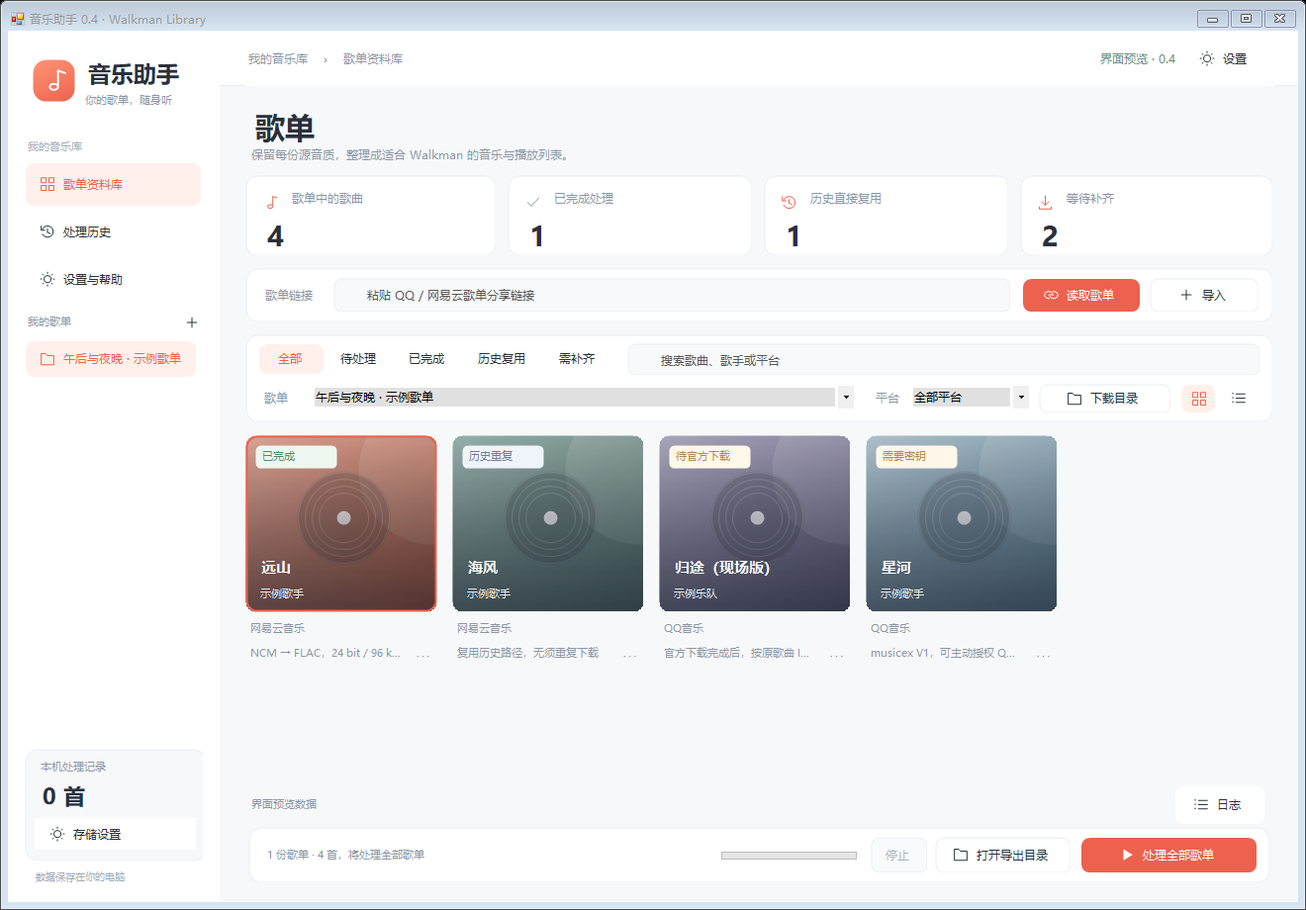
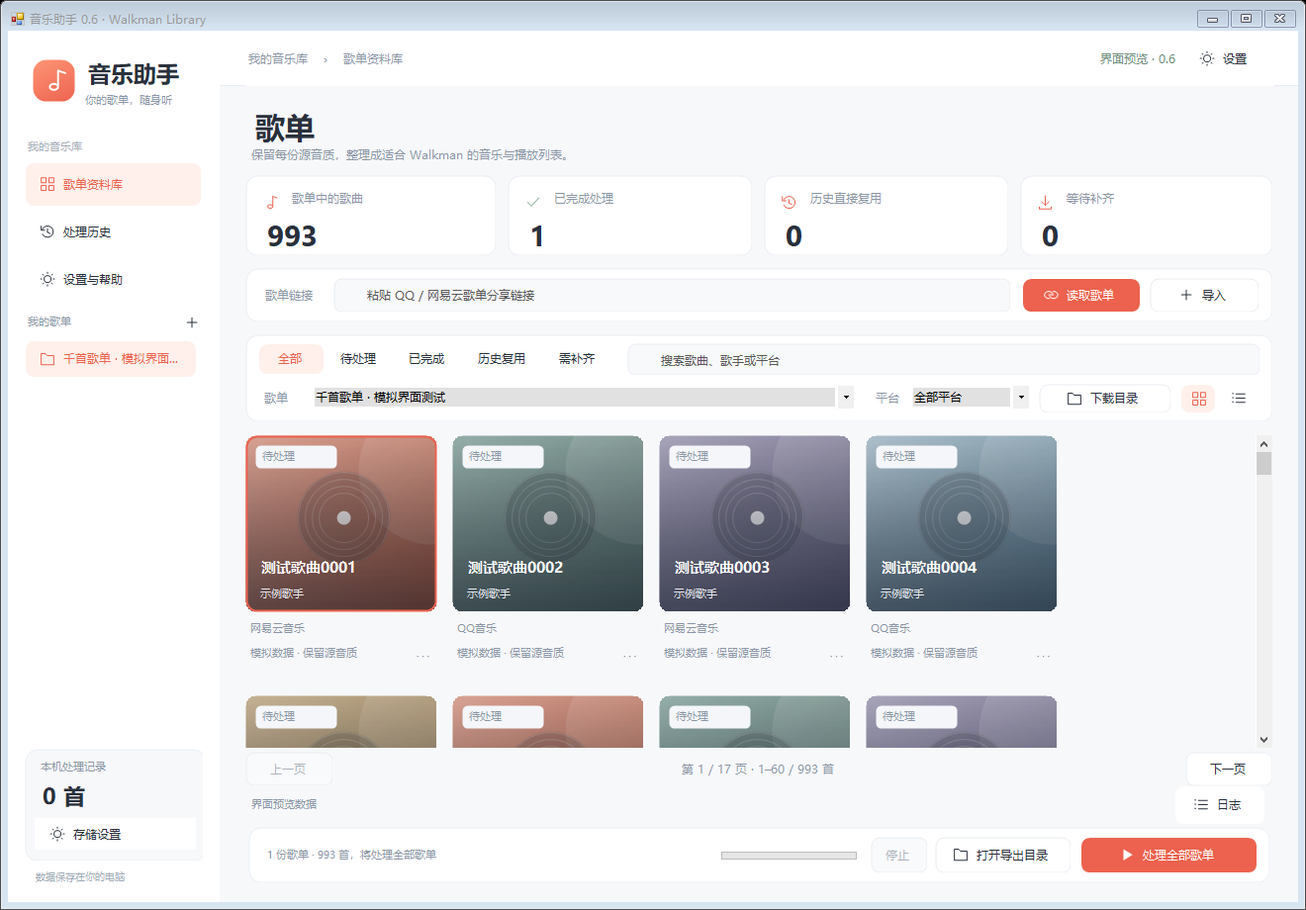
Fix large playlist card rendering with bounded pagination

diff --git a/src/MainForm.Views.cs b/src/MainForm.Views.cs
@@ -1,4 +1,4 @@
-using System;
+using System;
 using System.Collections.Generic;
 using System.ComponentModel;
 using System.Drawing;
@@ -14,7 +14,9 @@ namespace MusicAssistant {
   readonly FlowLayoutPanel collectionList=new FlowLayoutPanel();readonly List<SoftButton> statusButtons=new List<SoftButton>();
   readonly Label breadcrumb=new Label(),storageCount=new Label(),activityCaption=new Label(),selectionCaption=new Label();
   readonly ToolTip tips=new ToolTip();MetricTile[] metricItems=new MetricTile[4];Panel taskStage,gridSurface,emptyState;
-  SoftButton cardToggle,tableToggle;string dataNotice="";
+  SoftButton cardToggle,tableToggle,pagePrevious,pageNext;Panel cardSurface;Label pageCaption;string dataNotice="";
+  const int AlbumPageSize=60;int albumPage;bool resetAlbumScroll=true;
+  List<string> albumCoverPaths=new List<string>();
 
   string ButtonIcon(string text){if(text.Contains("目录")||text.Contains("文件"))return "folder";if(text.Contains("密钥"))return "key";if(text.Contains("日志"))return "list";if(text.Contains("读取")||text.Contains("链接"))return "link";if(text.Contains("导入")||text.Contains("添加"))return "plus";if(text.Contains("处理"))return "play";if(text.Contains("设置"))return "settings";return null;}
   void InitializeShell(){
@@ -25,7 +27,7 @@ namespace MusicAssistant {
    breadcrumb.Dock=DockStyle.Fill;breadcrumb.ForeColor=muted;breadcrumb.TextAlign=ContentAlignment.MiddleLeft;breadcrumb.Font=new Font(Font.FontFamily,8.5f);topbar.Controls.Add(breadcrumb);
    var topRight=new FlowLayoutPanel{Dock=DockStyle.Right,Width=250,Padding=new Padding(0,10,0,0),FlowDirection=FlowDirection.RightToLeft,WrapContents=false};topbar.Controls.Add(topRight);
    var prefs=Button("设置",()=>Switch("设置与帮助"),84,false);((SoftButton)prefs).Quiet=true;topRight.Controls.Add(prefs);
-   var mode=Label(previewMode?"界面预览 · 0.5":"保真处理 · 0.5",8.5f,Color.FromArgb(108,140,120),145,36);mode.TextAlign=ContentAlignment.MiddleRight;topRight.Controls.Add(mode);
+   var mode=Label(previewMode?"界面预览 · 0.6":"保真处理 · 0.6",8.5f,Color.FromArgb(108,140,120),145,36);mode.TextAlign=ContentAlignment.MiddleRight;topRight.Controls.Add(mode);
    var side=new TableLayoutPanel{Dock=DockStyle.Fill,ColumnCount=1,RowCount=6,BackColor=Color.White};side.ColumnStyles.Add(new ColumnStyle(SizeType.Percent,100));foreach(float h in new[]{82f,25f,144f,36f,0f,147f})side.RowStyles.Add(new RowStyle(h==0?SizeType.Percent:SizeType.Absolute,h==0?100:h));sidebar.Controls.Add(side);
    var brand=new Panel{Dock=DockStyle.Fill,BackColor=Color.White};brand.Controls.Add(new BrandMark{Location=new Point(7,2)});var brandTitle=Label("音乐助手",17,ink,130,32);brandTitle.Location=new Point(58,0);brand.Controls.Add(brandTitle);var tagline=Label("你的歌单，随身听",8,muted,130,24);tagline.Location=new Point(58,32);brand.Controls.Add(tagline);side.Controls.Add(brand,0,0);
    side.Controls.Add(Label("我的音乐库",8,Color.FromArgb(165,173,184),175,25),0,1);
@@ -43,7 +45,7 @@ namespace MusicAssistant {
   TableLayoutPanel Base(string title,string description){ReleasePage();var shell=new TableLayoutPanel{Dock=DockStyle.Fill,ColumnCount=1,RowCount=2,BackColor=background,Margin=Padding.Empty};shell.ColumnStyles.Add(new ColumnStyle(SizeType.Percent,100));shell.RowStyles.Add(new RowStyle(SizeType.Absolute,72));shell.RowStyles.Add(new RowStyle(SizeType.Percent,100));content.Controls.Add(shell);
    var head=new Panel{Dock=DockStyle.Fill,BackColor=background};head.Controls.Add(Label(title,22,ink,480,40));subtitle.Text=description;subtitle.Font=new Font(Font.FontFamily,8.5f);subtitle.ForeColor=muted;subtitle.SetBounds(0,40,900,24);head.Controls.Add(subtitle);shell.Controls.Add(head,0,0);return shell;}
   void Switch(string name){if(busy)return;view=name;buildingUi=true;if(name=="处理历史")BuildHistory();else if(name=="设置与帮助")BuildSettings();else BuildTasks();buildingUi=false;RefreshSidebar();}
-  public void ShowPreviewPage(string name){if(name=="歌曲列表"){showCards=false;Switch("歌单任务");}else Switch(name);}
+  public void ShowPreviewPage(string name){if(name=="大歌单"){ShowLargePreview();}else if(name=="大歌单尾页"){ShowLargePreview();ChangeAlbumPage(16);}else if(name=="歌曲列表"){showCards=false;Switch("歌单任务");}else Switch(name);}
   public void SetDataLocationNotice(string notice){dataNotice=notice;Append(notice);}
   void InputStyle(TextBox box){box.BorderStyle=BorderStyle.None;box.BackColor=Color.FromArgb(248,249,251);box.ForeColor=ink;box.Font=new Font(Font.FontFamily,9);}
   SurfacePanel InputWrap(TextBox box,string icon){InputStyle(box);var p=new SurfacePanel{Dock=DockStyle.Fill,Radius=7,SurfaceColor=box.BackColor,BackColor=Color.White};p.Controls.Add(box);p.Resize+=(s,e)=>{box.SetBounds(string.IsNullOrEmpty(icon)?12:34,Math.Max(9,(p.Height-box.PreferredHeight)/2),Math.Max(30,p.Width-(string.IsNullOrEmpty(icon)?24:45)),box.PreferredHeight);};if(!string.IsNullOrEmpty(icon))p.Paint+=(s,e)=>UiIcons.Draw(e.Graphics,icon,new Rectangle(11,(p.Height-15)/2,15,15),muted);return p;}
@@ -56,18 +58,38 @@ namespace MusicAssistant {
    var top=new TableLayoutPanel{Dock=DockStyle.Fill,ColumnCount=2,RowCount=1,Margin=Padding.Empty};top.BackColor=Color.White;top.RowStyles.Add(new RowStyle(SizeType.Percent,100));top.ColumnStyles.Add(new ColumnStyle(SizeType.Absolute,365));top.BackColor=Color.White;top.RowStyles.Add(new RowStyle(SizeType.Percent,100));top.ColumnStyles.Add(new ColumnStyle(SizeType.Percent,100));var tabs=new FlowLayoutPanel{Dock=DockStyle.Fill,WrapContents=false,Margin=Padding.Empty,BackColor=Color.White};statusButtons.Clear();foreach(string name in new[]{"全部","待处理","已完成","历史复用","需补齐"}){string captured=name;var b=(SoftButton)Button(name,()=>{statusTab=captured;ApplyFilters();},name.Length>3?80:66,false);b.Icon=null;b.Quiet=true;b.Chosen=statusTab==name;b.Height=31;b.Margin=new Padding(0,0,3,0);statusButtons.Add(b);tabs.Controls.Add(b);}top.Controls.Add(tabs,0,0);var searchWrap=InputWrap(songSearch,"search");searchWrap.Margin=new Padding(8,0,0,3);songSearch.TextChanged-=SearchChanged;songSearch.TextChanged+=SearchChanged;top.Controls.Add(searchWrap,1,0);frows.Controls.Add(top,0,0);
    var bottom=new TableLayoutPanel{Dock=DockStyle.Fill,ColumnCount=7,RowCount=1,Margin=new Padding(0,6,0,0)};bottom.BackColor=Color.White;bottom.RowStyles.Add(new RowStyle(SizeType.Percent,100));bottom.ColumnStyles.Add(new ColumnStyle(SizeType.Absolute,54));bottom.BackColor=Color.White;bottom.RowStyles.Add(new RowStyle(SizeType.Percent,100));bottom.ColumnStyles.Add(new ColumnStyle(SizeType.Percent,100));bottom.BackColor=Color.White;bottom.RowStyles.Add(new RowStyle(SizeType.Percent,100));bottom.ColumnStyles.Add(new ColumnStyle(SizeType.Absolute,41));bottom.BackColor=Color.White;bottom.RowStyles.Add(new RowStyle(SizeType.Percent,100));bottom.ColumnStyles.Add(new ColumnStyle(SizeType.Absolute,130));bottom.BackColor=Color.White;bottom.RowStyles.Add(new RowStyle(SizeType.Percent,100));bottom.ColumnStyles.Add(new ColumnStyle(SizeType.Absolute,143));bottom.BackColor=Color.White;bottom.RowStyles.Add(new RowStyle(SizeType.Percent,100));bottom.ColumnStyles.Add(new ColumnStyle(SizeType.Absolute,40));bottom.BackColor=Color.White;bottom.RowStyles.Add(new RowStyle(SizeType.Percent,100));bottom.ColumnStyles.Add(new ColumnStyle(SizeType.Absolute,40));bottom.Controls.Add(Label("歌单",8.5f,muted,50,28),0,0);ComboStyle(listSelector);listSelector.Dock=DockStyle.Fill;listSelector.Margin=new Padding(0,1,15,0);listSelector.SelectedIndexChanged-=SelectionChanged;listSelector.SelectedIndexChanged+=SelectionChanged;bottom.Controls.Add(listSelector,1,0);bottom.Controls.Add(Label("平台",8.5f,muted,40,28),2,0);ComboStyle(platformFilter);if(platformFilter.Items.Count==0){platformFilter.Items.AddRange(new object[]{"全部平台","QQ音乐","网易云音乐","本地音乐"});platformFilter.SelectedIndex=0;}platformFilter.SelectedIndexChanged-=SearchChanged;platformFilter.SelectedIndexChanged+=SearchChanged;platformFilter.Dock=DockStyle.Fill;platformFilter.Margin=new Padding(0,1,9,0);bottom.Controls.Add(platformFilter,3,0);var dirs=Button("下载目录",ChooseSourceFolder,136,false);dirs.Dock=DockStyle.Fill;dirs.Height=29;dirs.Margin=new Padding(0,0,10,0);bottom.Controls.Add(dirs,4,0);mutable.Add(dirs);
    cardToggle=(SoftButton)Button("",()=>SetView(true),32,false);cardToggle.Icon="grid";cardToggle.Quiet=true;cardToggle.Chosen=showCards;cardToggle.Dock=DockStyle.Fill;cardToggle.Margin=new Padding(0,0,5,0);tableToggle=(SoftButton)Button("",()=>SetView(false),32,false);tableToggle.Icon="list";tableToggle.Quiet=true;tableToggle.Chosen=!showCards;tableToggle.Dock=DockStyle.Fill;tableToggle.Margin=Padding.Empty;tips.SetToolTip(cardToggle,"专辑卡片视图");tips.SetToolTip(tableToggle,"歌曲列表视图");bottom.Controls.Add(cardToggle,5,0);bottom.Controls.Add(tableToggle,6,0);frows.Controls.Add(bottom,0,1);body.Controls.Add(filter,0,2);mutable.Add(listSelector);
-   taskStage=new Panel{Dock=DockStyle.Fill,BackColor=background,Margin=Padding.Empty};albumWall.Dock=DockStyle.Fill;albumWall.AutoScroll=true;albumWall.WrapContents=true;albumWall.FlowDirection=FlowDirection.LeftToRight;albumWall.BackColor=background;albumWall.Padding=Padding.Empty;taskStage.Controls.Add(albumWall);gridSurface=new SurfacePanel{Dock=DockStyle.Fill,BackColor=background,Padding=new Padding(8)};grid.Columns.Clear();StyleGrid(grid);Col(grid,"歌曲","Title",25);Col(grid,"歌手","Artist",17);Col(grid,"平台","Platform",13);Col(grid,"状态","Status",14);Col(grid,"说明","Detail",38);grid.CellDoubleClick-=GridDoubleClick;grid.CellDoubleClick+=GridDoubleClick;grid.CellToolTipTextNeeded-=GridTooltip;grid.CellToolTipTextNeeded+=GridTooltip;grid.CellPainting-=PaintStatus;grid.CellPainting+=PaintStatus;grid.CellMouseClick-=GridMenuClick;grid.CellMouseClick+=GridMenuClick;gridSurface.Controls.Add(grid);taskStage.Controls.Add(gridSurface);emptyState=EmptyPanel();taskStage.Controls.Add(emptyState);body.Controls.Add(taskStage,0,3);
+   taskStage=new Panel{Dock=DockStyle.Fill,BackColor=background,Margin=Padding.Empty};albumWall.Dock=DockStyle.Fill;albumWall.AutoScroll=true;albumWall.WrapContents=true;albumWall.FlowDirection=FlowDirection.LeftToRight;albumWall.BackColor=background;albumWall.Padding=Padding.Empty;cardSurface=new Panel{Dock=DockStyle.Fill,BackColor=background};cardSurface.Controls.Add(albumWall);
+   var paging=new TableLayoutPanel{Dock=DockStyle.Bottom,Height=38,ColumnCount=3,RowCount=1,BackColor=background,Padding=new Padding(0,4,0,0)};paging.RowStyles.Add(new RowStyle(SizeType.Percent,100));paging.ColumnStyles.Add(new ColumnStyle(SizeType.Absolute,88));paging.ColumnStyles.Add(new ColumnStyle(SizeType.Percent,100));paging.ColumnStyles.Add(new ColumnStyle(SizeType.Absolute,88));
+   pagePrevious=(SoftButton)Button("上一页",()=>ChangeAlbumPage(-1),86,false);pageNext=(SoftButton)Button("下一页",()=>ChangeAlbumPage(1),86,false);pagePrevious.Dock=pageNext.Dock=DockStyle.Fill;pagePrevious.Margin=pageNext.Margin=Padding.Empty;pagePrevious.Icon=pageNext.Icon=null;pageCaption=Label("",8.5f,muted,300,34);pageCaption.Dock=DockStyle.Fill;pageCaption.TextAlign=ContentAlignment.MiddleCenter;paging.Controls.Add(pagePrevious,0,0);paging.Controls.Add(pageCaption,1,0);paging.Controls.Add(pageNext,2,0);cardSurface.Controls.Add(paging);taskStage.Controls.Add(cardSurface);gridSurface=new SurfacePanel{Dock=DockStyle.Fill,BackColor=background,Padding=new Padding(8)};grid.Columns.Clear();StyleGrid(grid);Col(grid,"歌曲","Title",25);Col(grid,"歌手","Artist",17);Col(grid,"平台","Platform",13);Col(grid,"状态","Status",14);Col(grid,"说明","Detail",38);grid.CellDoubleClick-=GridDoubleClick;grid.CellDoubleClick+=GridDoubleClick;grid.CellToolTipTextNeeded-=GridTooltip;grid.CellToolTipTextNeeded+=GridTooltip;grid.CellPainting-=PaintStatus;grid.CellPainting+=PaintStatus;grid.CellMouseClick-=GridMenuClick;grid.CellMouseClick+=GridMenuClick;gridSurface.Controls.Add(grid);taskStage.Controls.Add(gridSurface);emptyState=EmptyPanel();taskStage.Controls.Add(emptyState);body.Controls.Add(taskStage,0,3);
    var activity=new TableLayoutPanel{Dock=DockStyle.Fill,ColumnCount=2,RowCount=1,Margin=Padding.Empty};activity.RowStyles.Add(new RowStyle(SizeType.Percent,100));activity.ColumnStyles.Add(new ColumnStyle(SizeType.Percent,100));activity.RowStyles.Add(new RowStyle(SizeType.Percent,100));activity.ColumnStyles.Add(new ColumnStyle(SizeType.Absolute,99));activityCaption.Dock=DockStyle.Fill;activityCaption.TextAlign=ContentAlignment.MiddleLeft;activityCaption.AutoEllipsis=true;activityCaption.ForeColor=muted;activityCaption.Font=new Font(Font.FontFamily,8);activity.Controls.Add(activityCaption,0,0);var logs=(SoftButton)Button("日志",ShowLogs,92,false);logs.Quiet=true;logs.Dock=DockStyle.Fill;activity.Controls.Add(logs,1,0);body.Controls.Add(activity,0,4);
    var dock=new SurfacePanel{Dock=DockStyle.Fill,Padding=new Padding(13,10,13,10),BackColor=background};var footer=new TableLayoutPanel{Dock=DockStyle.Fill,ColumnCount=5,RowCount=1,Margin=Padding.Empty};footer.BackColor=Color.White;footer.RowStyles.Add(new RowStyle(SizeType.Percent,100));footer.ColumnStyles.Add(new ColumnStyle(SizeType.Percent,100));footer.BackColor=Color.White;footer.RowStyles.Add(new RowStyle(SizeType.Percent,100));footer.ColumnStyles.Add(new ColumnStyle(SizeType.Absolute,155));footer.BackColor=Color.White;footer.RowStyles.Add(new RowStyle(SizeType.Percent,100));footer.ColumnStyles.Add(new ColumnStyle(SizeType.Absolute,65));footer.BackColor=Color.White;footer.RowStyles.Add(new RowStyle(SizeType.Percent,100));footer.ColumnStyles.Add(new ColumnStyle(SizeType.Absolute,147));footer.BackColor=Color.White;footer.RowStyles.Add(new RowStyle(SizeType.Percent,100));footer.ColumnStyles.Add(new ColumnStyle(SizeType.Absolute,178));dock.Controls.Add(footer);selectionCaption.Dock=DockStyle.Fill;selectionCaption.AutoEllipsis=true;selectionCaption.ForeColor=muted;selectionCaption.TextAlign=ContentAlignment.MiddleLeft;selectionCaption.Font=new Font(Font.FontFamily,8);footer.Controls.Add(selectionCaption,0,0);progress.Dock=DockStyle.Fill;progress.Height=6;progress.Margin=new Padding(4,15,14,13);footer.Controls.Add(progress,1,0);cancel.Text="停止";cancel.Dock=DockStyle.Fill;cancel.Enabled=false;cancel.FlatStyle=FlatStyle.Flat;cancel.FlatAppearance.BorderColor=UiTheme.Line;cancel.BackColor=Color.White;cancel.Margin=new Padding(0,0,8,0);cancel.Click-=CancelClick;cancel.Click+=CancelClick;footer.Controls.Add(cancel,2,0);var open=Button("打开导出目录",()=>OpenFolder(store.Settings.OutputRoot),139,false);open.Dock=DockStyle.Fill;open.Margin=new Padding(0,0,10,0);footer.Controls.Add(open,3,0);run.Text="处理全部歌单";run.Dock=DockStyle.Fill;((SoftButton)run).Primary=true;((SoftButton)run).Icon="play";run.Margin=Padding.Empty;run.Click-=RunClick;run.Click+=RunClick;footer.Controls.Add(run,4,0);body.Controls.Add(dock,0,5);
    buildingUi=false;RefreshLists();if(log.Text.Length==0)Append(audio.Available?"音频组件已就绪。导入歌单或本地音乐后开始。":"请先准备音频组件。");RefreshSidebar();
   }
-  void SearchChanged(object s,EventArgs e){if(!buildingUi)BindGrid();}
-  void ApplyFilters(){foreach(var b in statusButtons){b.Chosen=b.Text==statusTab;b.Invalidate();}BindGrid();}
+  void ResetAlbumPage(){albumPage=0;cardSelected=null;resetAlbumScroll=true;}
+  void SearchChanged(object s,EventArgs e){if(!buildingUi){ResetAlbumPage();BindGrid();}}
+  void ApplyFilters(){ResetAlbumPage();foreach(var b in statusButtons){b.Chosen=b.Text==statusTab;b.Invalidate();}BindGrid();}
   List<Track> VisibleTracks(){if(Current==null)return new List<Track>();string q=songSearch.Text.Trim(),p=Convert.ToString(platformFilter.SelectedItem);return Current.Tracks.Where(t=>q.Length==0||(t.Title+" "+t.Artist+" "+t.Platform).IndexOf(q,StringComparison.OrdinalIgnoreCase)>=0).Where(t=>string.IsNullOrEmpty(p)||p=="全部平台"||(p=="本地音乐"?string.IsNullOrEmpty(t.Platform):t.Platform==p)).Where(t=>statusTab=="全部"||statusTab=="已完成"&&t.Status=="已完成"||statusTab=="历史复用"&&t.Status=="历史重复"||statusTab=="待处理"&&(t.Status=="待处理"||t.Status=="处理中"||t.Status=="待重新处理")||statusTab=="需补齐"&&(t.Status=="需要密钥"||t.Status=="待官方下载"||t.Status=="失败"||t.Status=="未支持"||t.Status=="待官方确认")).ToList();}
   void UpdateCounters(){var rows=playlists.SelectMany(p=>p.Tracks).ToList();int[] values={rows.Count,rows.Count(t=>t.Status=="已完成"),rows.Count(t=>t.Status=="历史重复"),rows.Count(t=>t.Status=="需要密钥"||t.Status=="待官方下载"||t.Status=="失败"||t.Status=="未支持"||t.Status=="待官方确认")};for(int i=0;i<4;i++)if(metricItems[i]!=null&&!metricItems[i].IsDisposed){metricItems[i].Value=values[i].ToString();metricItems[i].Invalidate();}storageCount.Text=store.History.Select(h=>h.RelativePath).Distinct().Count()+" 首";if(view=="歌单任务"){subtitle.Text=Current!=null&&!string.IsNullOrEmpty(Current.ImportNotice)?Current.ImportNotice:"保留每份源音质，整理成适合 Walkman 的音乐与播放列表。";subtitle.AutoEllipsis=true;tips.SetToolTip(subtitle,subtitle.Text);}selectionCaption.Text=playlists.Count+" 份歌单 · "+rows.Count+" 首，将处理全部歌单";}
-  void SetView(bool cards){var selected=Selected;showCards=cards;if(selected!=null){if(cards)SelectCard(selected);else foreach(DataGridViewRow row in grid.Rows)if(row.DataBoundItem==selected){grid.CurrentCell=row.Cells[0];break;}}if(cardToggle!=null){cardToggle.Chosen=cards;cardToggle.Invalidate();tableToggle.Chosen=!cards;tableToggle.Invalidate();}UpdateStage(VisibleTracks().Count);}
-  void UpdateStage(int count){if(taskStage==null||taskStage.IsDisposed)return;albumWall.Visible=showCards&&count>0;gridSurface.Visible=!showCards&&count>0;emptyState.Visible=count==0;if(count==0)emptyState.BringToFront();else if(showCards)albumWall.BringToFront();else gridSurface.BringToFront();}
-  void BuildAlbumWall(List<Track> tracks){albumWall.SuspendLayout();foreach(Control c in albumWall.Controls.Cast<Control>().ToArray())c.Dispose();albumWall.Controls.Clear();if(cardSelected==null||!tracks.Contains(cardSelected))cardSelected=tracks.FirstOrDefault();int index=0;foreach(var t in tracks){var tile=new AlbumTile(t,FindCover(t),index++){Selected=t==cardSelected};tile.Activate=SelectCard;tile.Options=(track,control)=>{SelectCard(track);ShowSongMenu(control);};tips.SetToolTip(tile,t.Title+"\n"+t.Detail);albumWall.Controls.Add(tile);}albumWall.ResumeLayout();}
+  void SetView(bool cards){var selected=Selected;showCards=cards;if(selected!=null){if(cards){var tracks=VisibleTracks();int index=tracks.IndexOf(selected);if(index>=0){albumPage=index/AlbumPageSize;cardSelected=selected;resetAlbumScroll=true;BuildAlbumWall(tracks);albumWall.ScrollControlIntoView(albumWall.Controls.OfType<AlbumTile>().First(t=>t.Track==selected));}}else foreach(DataGridViewRow row in grid.Rows)if(row.DataBoundItem==selected){grid.CurrentCell=row.Cells[0];break;}}if(cardToggle!=null){cardToggle.Chosen=cards;cardToggle.Invalidate();tableToggle.Chosen=!cards;tableToggle.Invalidate();}UpdateStage(VisibleTracks().Count);}
+  void UpdateStage(int count){if(taskStage==null||taskStage.IsDisposed)return;cardSurface.Visible=showCards&&count>0;gridSurface.Visible=!showCards&&count>0;emptyState.Visible=count==0;if(count==0)emptyState.BringToFront();else if(showCards)cardSurface.BringToFront();else gridSurface.BringToFront();}
+  void ChangeAlbumPage(int delta){var tracks=VisibleTracks();int next=Math.Max(0,Math.Min(albumPage+delta,Math.Max(0,(tracks.Count-1)/AlbumPageSize)));if(next==albumPage)return;albumPage=next;cardSelected=null;resetAlbumScroll=true;BuildAlbumWall(tracks);}
+  void BuildAlbumWall(List<Track> tracks){
+   int lastPage=Math.Max(0,(tracks.Count-1)/AlbumPageSize);if(albumPage>lastPage){albumPage=lastPage;resetAlbumScroll=true;}
+   int start=albumPage*AlbumPageSize;var page=tracks.Skip(start).Take(AlbumPageSize).ToList();
+   if(cardSelected==null||!page.Contains(cardSelected))cardSelected=page.FirstOrDefault();
+   var covers=page.Select(FindCover).ToList();var tiles=albumWall.Controls.OfType<AlbumTile>().ToList();
+   bool rebuild=!tiles.Select(t=>t.Track).SequenceEqual(page)||!albumCoverPaths.SequenceEqual(covers);
+   var scroll=new Point(-albumWall.AutoScrollPosition.X,-albumWall.AutoScrollPosition.Y);
+   albumWall.SuspendLayout();
+   if(rebuild){
+    albumWall.AutoScrollPosition=Point.Empty;
+    foreach(var tile in tiles){tips.SetToolTip(tile,null);tile.Dispose();}albumWall.Controls.Clear();albumCoverPaths=covers;
+    for(int i=0;i<page.Count;i++){var tile=new AlbumTile(page[i],covers[i],start+i);tile.Activate=SelectCard;tile.Options=(track,control)=>{SelectCard(track);ShowSongMenu(control);};albumWall.Controls.Add(tile);}
+   }
+   foreach(AlbumTile tile in albumWall.Controls){tile.Selected=tile.Track==cardSelected;tips.SetToolTip(tile,tile.Track.Title+"\n"+tile.Track.Detail);tile.Invalidate();}
+   albumWall.ResumeLayout(true);albumWall.AutoScrollPosition=resetAlbumScroll?Point.Empty:scroll;resetAlbumScroll=false;
+   if(pageCaption!=null&&!pageCaption.IsDisposed){pageCaption.Text=tracks.Count==0?"没有匹配的歌曲":string.Format("第 {0} / {1} 页 · {2}–{3} / {4} 首",albumPage+1,lastPage+1,start+1,start+page.Count,tracks.Count);pagePrevious.Enabled=albumPage>0;pageNext.Enabled=albumPage<lastPage;}
+  }
   void SelectCard(Track track){cardSelected=track;foreach(AlbumTile tile in albumWall.Controls.OfType<AlbumTile>()){tile.Selected=tile.Track==track;tile.Invalidate();}selectionCaption.Text="已选择："+track.Title+" · 右键可关联文件、补密钥或重试";}
   void ShowPlaylistMenu(int index,Control owner){if(busy)return;if(view!="歌单任务"&&view!="任务")Switch("歌单任务");listSelector.SelectedIndex=index;var menu=NewMenu();MenuItem(menu,"重命名歌单",RenamePlaylist);MenuItem(menu,"保存歌单文件",SavePlaylist);MenuItem(menu,"移除歌单任务",RemovePlaylist);menu.Show(owner,new Point(10,owner.Height));}
   string FindCover(Track t){if(!string.IsNullOrEmpty(t.OutputPath))try{string folder=Path.GetDirectoryName(Files.Inside(Path.Combine(store.Settings.OutputRoot,"Music"),t.OutputPath));foreach(string name in new[]{"container-cover.jpg","container-cover.png","cover.jpg","cover.png"}){string path=Path.Combine(folder,name);if(File.Exists(path))return path;}}catch{}if(!string.IsNullOrEmpty(t.SourcePath)){string path=Path.ChangeExtension(t.SourcePath,".jpg");if(File.Exists(path))return path;path=Path.ChangeExtension(t.SourcePath,".png");if(File.Exists(path))return path;}return null;}

diff --git a/src/MainForm.UiChecks.cs b/src/MainForm.UiChecks.cs
@@ -15,8 +15,29 @@ namespace MusicAssistant {
    Size=new Size(1060,740);Application.DoEvents();var read=Descendants(content).OfType<Button>().First(c=>c.Text=="读取歌单");check(read.Bounds.Bottom<=read.Parent.ClientSize.Height&&read.Bounds.Right<=read.Parent.ClientSize.Width,"最小窗口下读取按钮完整可见");
    check(run.Bounds.Bottom<=run.Parent.ClientSize.Height&&run.Bounds.Right<=run.Parent.ClientSize.Width,"最小窗口下处理按钮完整可见");
    Switch("处理历史");Application.DoEvents();var open=Descendants(content).OfType<Button>().First(c=>c.Text=="打开记录目录");check(open.Bounds.Bottom<=open.Parent.ClientSize.Height,"历史页面操作按钮没有被布局裁切");
-   Switch("设置与帮助");Switch("歌单任务");Application.DoEvents();check(VisibleTracks().Count==4&&!grid.IsDisposed,"重复导航后任务列表仍可正常使用");return results;
+   Switch("设置与帮助");Switch("歌单任务");Application.DoEvents();check(VisibleTracks().Count==4&&!grid.IsDisposed,"重复导航后任务列表仍可正常使用");
+   ShowLargePreview();Application.DoEvents();var tracks=VisibleTracks();
+   check(tracks.Count==993&&grid.Rows.Count==993&&metricItems[0].Value=="993","分页仍保留完整歌单、列表与总数");
+   check(albumWall.Controls.Count==60&&albumPage==0&&!pagePrevious.Enabled&&pageNext.Enabled,"大歌单首屏只创建60张卡片");
+   check(albumWall.Controls[0].Bounds.IntersectsWith(albumWall.ClientRectangle)&&albumWall.DisplayRectangle.Height<32767,"大歌单首屏卡片可见且布局高度安全");
+   check(pageNext.Bounds.Bottom<=pageNext.Parent.ClientSize.Height&&pageCaption.Width>200,"最小窗口下页码与翻页按钮完整可见");
+   var seen=new List<Track>();for(int page=0;page<17;page++){Application.DoEvents();seen.AddRange(albumWall.Controls.OfType<AlbumTile>().Select(t=>t.Track));check(albumWall.Controls.Count<=60&&albumWall.Controls[0].Bounds.IntersectsWith(albumWall.ClientRectangle),"分页 "+(page+1)+" 的卡片完整且首张可见");if(page<16)pageNext.PerformClick();}
+   check(seen.SequenceEqual(tracks),"逐页浏览993首顺序一致，无丢失或重复");
+   check(albumWall.Controls.Count==33&&albumPage==16&&!pageNext.Enabled&&pagePrevious.Enabled&&pageCaption.Text.Contains("961–993"),"尾页显示剩余33首并禁止越界翻页");
+   ChangeAlbumPage(1);check(albumPage==16,"尾页不会跳出歌单范围");
+   SelectCard(tracks[992]);SetView(false);check(Selected==tracks[992]&&grid.Rows.Count==993,"尾页歌曲切换列表保持选择且列表显示完整歌单");
+   grid.CurrentCell=grid.Rows[120].Cells[0];SetView(true);Application.DoEvents();check(albumPage==2&&Selected==tracks[120]&&albumWall.Controls.OfType<AlbumTile>().Any(t=>t.Track==tracks[120]&&t.Selected),"列表中的跨页歌曲回到对应卡片页");
+   SetView(false);grid.CurrentCell=grid.Rows[177].Cells[0];SetView(true);Application.DoEvents();check(Selected==tracks[177]&&albumWall.Controls.OfType<AlbumTile>().First(t=>t.Track==tracks[177]).Bounds.IntersectsWith(albumWall.ClientRectangle),"从列表切回卡片时自动滚动到页内靠后的选中歌曲");SelectCard(tracks[120]);
+   albumWall.AutoScrollPosition=new Point(0,270);Application.DoEvents();var beforeScroll=albumWall.AutoScrollPosition;var beforeTile=albumWall.Controls[0];tracks[120].Status="处理中";BindGrid();Application.DoEvents();check(albumWall.Controls[0]==beforeTile&&albumWall.AutoScrollPosition==beforeScroll&&albumPage==2,"处理进度刷新复用卡片并保持页码与滚动位置");
+   pagePrevious.PerformClick();Application.DoEvents();check(albumPage==1&&Selected==tracks[60]&&albumWall.AutoScrollPosition==Point.Empty,"翻页重置滚动并将操作对应到新页面歌曲");
+   songSearch.Text="测试歌曲0993";Application.DoEvents();check(VisibleTracks().Count==1&&albumPage==0&&Selected==tracks[992]&&albumWall.Controls.Count==1&&!pageNext.Enabled,"搜索覆盖全歌单并定位末尾歌曲");
+   songSearch.Text="不存在的模拟歌曲";Application.DoEvents();check(Selected==null&&albumWall.Controls.Count==0&&emptyState.Visible&&!cardSurface.Visible,"无结果时显示空状态且无法误操作旧歌曲");
+   songSearch.Clear();statusTab="已完成";ApplyFilters();Application.DoEvents();check(VisibleTracks().Count==1&&Selected==tracks[992]&&albumPage==0,"状态筛选覆盖全部页面");
+   statusTab="全部";ApplyFilters();platformFilter.SelectedItem="QQ音乐";Application.DoEvents();check(VisibleTracks().Count==496&&albumWall.Controls.Count==60&&albumPage==0,"平台筛选保留全歌单匹配结果并重置页码");
+   platformFilter.SelectedIndex=0;ChangeAlbumPage(16);Switch("处理历史");Switch("歌单任务");Application.DoEvents();check(albumWall.Controls.Count==60&&albumWall.Controls[0].Bounds.IntersectsWith(albumWall.ClientRectangle)&&!albumWall.IsDisposed,"大歌单重复导航后仍显示卡片");
+   return results;
   }
+  public void ShowLargePreview(){if(!previewMode)throw new InvalidOperationException("模拟歌单仅用于独立预览");var p=new Playlist{Name="千首歌单 · 模拟界面测试"};for(int i=1;i<=993;i++)p.Tracks.Add(new Track{Title="测试歌曲"+i.ToString("D4"),Artist="示例歌手",Platform=i%2==0?"QQ音乐":"网易云音乐",SongId=i.ToString(),Status=i==993?"已完成":"待处理",Detail="模拟数据 · 保留源音质"});playlists.Clear();playlists.Add(p);songSearch.Clear();platformFilter.SelectedIndex=0;statusTab="全部";ResetAlbumPage();Switch("歌单任务");}
   static IEnumerable<Control> Descendants(Control control){foreach(Control child in control.Controls){yield return child;foreach(var item in Descendants(child))yield return item;}}
  }
 }

diff --git a/src/MainForm.cs b/src/MainForm.cs
@@ -26,7 +26,7 @@ namespace MusicAssistant {
    link.HandleCreated+=(s,e)=>SendMessage(link.Handle,0x1501,new IntPtr(1),"粘贴 QQ / 网易云歌单分享链接");
    historySearch.HandleCreated+=(s,e)=>SendMessage(historySearch.Handle,0x1501,new IntPtr(1),"搜索歌曲、歌手或平台");
    songSearch.HandleCreated+=(s,e)=>SendMessage(songSearch.Handle,0x1501,new IntPtr(1),"搜索歌曲、歌手或平台");
-   Text="音乐助手 0.5 · Walkman Library";Size=new Size(1320,920);MinimumSize=new Size(1060,740);StartPosition=FormStartPosition.CenterScreen;BackColor=background;Font=new Font("Microsoft YaHei UI",9f);ForeColor=ink;
+   Text="音乐助手 0.6 · Walkman Library";Size=new Size(1320,920);MinimumSize=new Size(1060,740);StartPosition=FormStartPosition.CenterScreen;BackColor=background;Font=new Font("Microsoft YaHei UI",9f);ForeColor=ink;
    previewMode=preview;InitializeShell();
    FormClosing+=(s,e)=>{if(busy){cancellation.Cancel();e.Cancel=true;Append("正在停止；完成当前提交后即可关闭。");}else if(!SkipTaskSaveOnClose)SaveTasks();};
    string taskPath=Path.Combine(store.Root,"tasks.json");if(File.Exists(taskPath))playlists.AddRange(Json.Read<List<Playlist>>(File.ReadAllText(taskPath,Encoding.UTF8))??new List<Playlist>());
@@ -40,12 +40,12 @@ namespace MusicAssistant {
   void Safe(Action action){try{action();}catch(Exception ex){MessageBox.Show(this,ex.Message,"音乐助手",MessageBoxButtons.OK,MessageBoxIcon.Information);}}
   FlowLayoutPanel Row(int height){return new FlowLayoutPanel{Dock=DockStyle.Fill,Height=height,WrapContents=false,FlowDirection=FlowDirection.LeftToRight,Padding=new Padding(0,5,0,0)};}
   void RefreshLists(){int selected=listSelector.SelectedIndex;listSelector.Items.Clear();foreach(var p in playlists)listSelector.Items.Add(p.Name);if(playlists.Count>0)listSelector.SelectedIndex=Math.Max(0,Math.Min(selected,playlists.Count-1));else BindGrid();RefreshSidebar();}
-  void SelectionChanged(object s,EventArgs e){if(buildingUi)return;cardSelected=null;BindGrid();RefreshSidebar();}
+  void SelectionChanged(object s,EventArgs e){if(buildingUi)return;ResetAlbumPage();BindGrid();RefreshSidebar();}
   void GridDoubleClick(object s,DataGridViewCellEventArgs e){if(e.RowIndex>=0)BindSource();}
   void GridTooltip(object s,DataGridViewCellToolTipTextNeededEventArgs e){if(e.RowIndex>=0){var t=grid.Rows[e.RowIndex].DataBoundItem as Track;if(t!=null)e.ToolTipText=t.Detail+"\n"+t.SourcePath;}}
   Playlist Current {get{return listSelector.SelectedIndex>=0&&listSelector.SelectedIndex<playlists.Count?playlists[listSelector.SelectedIndex]:null;}}
   Track Selected {get{return showCards?cardSelected:(grid.CurrentRow==null?null:grid.CurrentRow.DataBoundItem as Track);}}
-  void BindGrid(){if(buildingUi)return;var visible=VisibleTracks();grid.DataSource=new BindingList<Track>(visible);BuildAlbumWall(visible);UpdateStats();UpdateStage(visible.Count);}
+  void BindGrid(){if(buildingUi)return;var selected=Selected;var visible=VisibleTracks();grid.DataSource=new BindingList<Track>(visible);if(!showCards&&selected!=null&&visible.Contains(selected))foreach(DataGridViewRow row in grid.Rows)if(row.DataBoundItem==selected){grid.CurrentCell=row.Cells[0];break;}BuildAlbumWall(visible);UpdateStats();UpdateStage(visible.Count);}
   void UpdateStats(){UpdateCounters();}
   void Add(Playlist p){playlists.Add(p);RefreshLists();listSelector.SelectedIndex=playlists.Count-1;SaveTasks();Append("已导入「"+p.Name+"」，"+p.Tracks.Count+" 首。歌曲顺序按原列表保留。");if(!string.IsNullOrEmpty(p.ImportNotice))Append("读取说明："+p.ImportNotice);}
   void ImportFile(){using(var dialog=new OpenFileDialog{Filter="歌单文件|*.csv;*.tsv;*.json;*.m3u;*.m3u8",Multiselect=true})if(dialog.ShowDialog(this)==DialogResult.OK)foreach(string file in dialog.FileNames)Add(Imports.Load(file));}

diff --git a/src/PublicPlaylist.cs b/src/PublicPlaylist.cs
@@ -43,7 +43,7 @@ namespace MusicAssistant {
    return CompleteNetEase(plan);
   }
   static string FetchNetEase(string url,CancellationToken ct) {
-   var request=(HttpWebRequest)WebRequest.Create(url);request.AllowAutoRedirect=false;request.Timeout=20000;request.ReadWriteTimeout=20000;request.UserAgent="MusicAssistant/0.5";request.Referer="https://music.163.com/";request.Accept="application/json";request.AutomaticDecompression=DecompressionMethods.GZip|DecompressionMethods.Deflate;
+   var request=(HttpWebRequest)WebRequest.Create(url);request.AllowAutoRedirect=false;request.Timeout=20000;request.ReadWriteTimeout=20000;request.UserAgent="MusicAssistant/0.6";request.Referer="https://music.163.com/";request.Accept="application/json";request.AutomaticDecompression=DecompressionMethods.GZip|DecompressionMethods.Deflate;
    using(ct.Register(()=>request.Abort()))try{using(var response=(HttpWebResponse)request.GetResponse())using(var reader=new StreamReader(response.GetResponseStream(),Encoding.UTF8)){
     if(response.StatusCode!=HttpStatusCode.OK)throw new InvalidDataException("网易公开歌单服务未返回成功状态");var sb=new StringBuilder();char[] buffer=new char[8192];int n;while((n=reader.Read(buffer,0,buffer.Length))>0){ct.ThrowIfCancellationRequested();sb.Append(buffer,0,n);if(sb.Length>32*1024*1024)throw new InvalidDataException("网易歌单超出读取大小限制");}return sb.ToString();
    }}catch(WebException){ct.ThrowIfCancellationRequested();throw;}

diff --git a/README.md b/README.md
@@ -1,6 +1,8 @@
 # 音乐助手
 
-面向 Windows 10/11 x64 的个人音乐整理工具，为 Sony NW-WM1ZM2（金砖二代）准备音乐文件和播放列表。当前版本 0.5。
+面向 Windows 10/11 x64 的个人音乐整理工具，为 Sony NW-WM1ZM2（金砖二代）准备音乐文件和播放列表。当前版本 0.6。
+
+0.6 修复近千首歌单导入后卡片区空白的问题：卡片每页最多 60 首，提供上一页、下一页及当前范围。搜索、状态/平台筛选、列表视图和批量处理仍使用完整歌单。切换页面或筛选后回到页首；处理进度刷新保留当前页、选中歌曲和滚动位置。
 
 0.5 修复网易网页只返回部分曲目导致无法导入的问题：从公开详情获取 `trackIds`，按 100 个 ID 分批补齐歌曲信息，再按原歌单顺序组装。分享追踪参数不会写入持久歌单链接。平台总数、公开 ID 数量或可见详情不一致时，保留并显示缺口；已知 ID 的不可见歌曲保留原位置供官方客户端确认，不伪造未知 ID。
 
@@ -27,7 +29,7 @@ cd music-assistant
 参考 [CangXia（藏匣）](https://github.com/wjh183322/cangxia) 的白色侧栏、珊瑚色强调、浅灰工作区和卡片布局重新设计。音乐助手的图标、控件与唱片占位封面由本项目绘制，不使用藏匣的媒体或品牌资源。
 
 - 歌单侧栏可以直接切换，右键可重命名、保存或移除任务。
-- 歌曲支持专辑卡片和列表两种视图；搜索与平台、处理状态筛选可以组合使用。
+- 歌曲支持分页专辑卡片和完整列表两种视图；搜索与平台、处理状态筛选可以组合使用，搜索范围覆盖全歌单。列表切回卡片时自动定位选中歌曲所在页面。
 - 右键歌曲或点击卡片右下角菜单，可以关联本地文件、打开官方歌曲页、补密钥或重新处理。
 - 右上角设置入口集中管理导出目录、原文件回收和下载目录。
 - 底部保留全部歌单处理、停止、导出目录与日志入口。登录状态获取仍需明确确认，不会因换界面自动执行。
@@ -106,9 +108,13 @@ JSON 使用 `Name`、`Link`、`Tracks`，曲目支持 `Title`、`Artist`、`Albu
 .\setup-audio.ps1   # 重新下载已固定 SHA256 的音频组件
 .\build.ps1         # 使用 Windows 自带 .NET Framework C# 编译器
 .\dist\CoreTests.exe .test-output
+.\dist\MusicAssistant.exe --ui-check .test-output\ui-check.json
+.\dist\MusicAssistant.exe --preview .test-output\large-playlist.png 大歌单
 ```
 
-源码在 `src`。测试仅处理 `.test-output` 下的合成音频，其中包含回收一个合成测试文件的检查；不会扫描或处理你的音乐。
+界面检查使用独立预览数据，包含 993 首合成歌单的 17 页顺序、首尾页可见性、全歌单搜索/筛选、跨视图选中定位和进度刷新，共 44 项检查；不会使用现有任务或访问网络。预览图同样只包含模拟数据。
+
+源码在 `src`。核心测试仅处理 `.test-output` 下的合成音频，其中包含回收一个合成测试文件的检查；不会扫描或处理你的音乐。
 
 历史/settings/tasks 使用 UTF-8 JSON，替换写入时保存 `.bak`。损坏历史不会静默重置。应用限制一个实例，避免同时修改记录。
 
